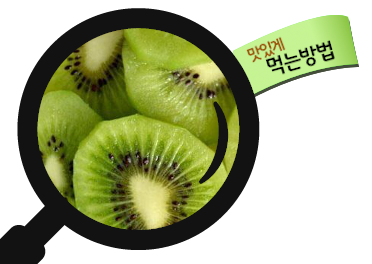
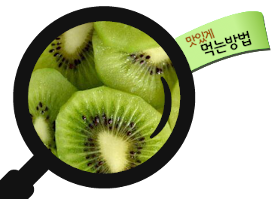
how-to-eat image change

diff --git a/src/how-to-store/HowToStore.css b/src/how-to-store/HowToStore.css
@@ -1,3 +1,12 @@
+.HowToStore_introImg {
+    object-fit:contain;
+    max-width: fit-content;
+    margin-left:auto;
+    margin-right: auto;
+    margin-bottom: 1.5em;
+}
+
+
 .HowToStore_list {
     counter-reset: howto-ripe;
 }

diff --git a/src/how-to-eat/HowToEat.css b/src/how-to-eat/HowToEat.css
@@ -1,3 +1,12 @@
+.HowToEat_introImg {
+    object-fit:contain;
+    max-width: fit-content;
+    margin-left:auto;
+    margin-right: auto;
+    margin-bottom: 1.5em;
+}
+
+
 .HowToEat_list {
     counter-reset: howto-ripe;
 }
